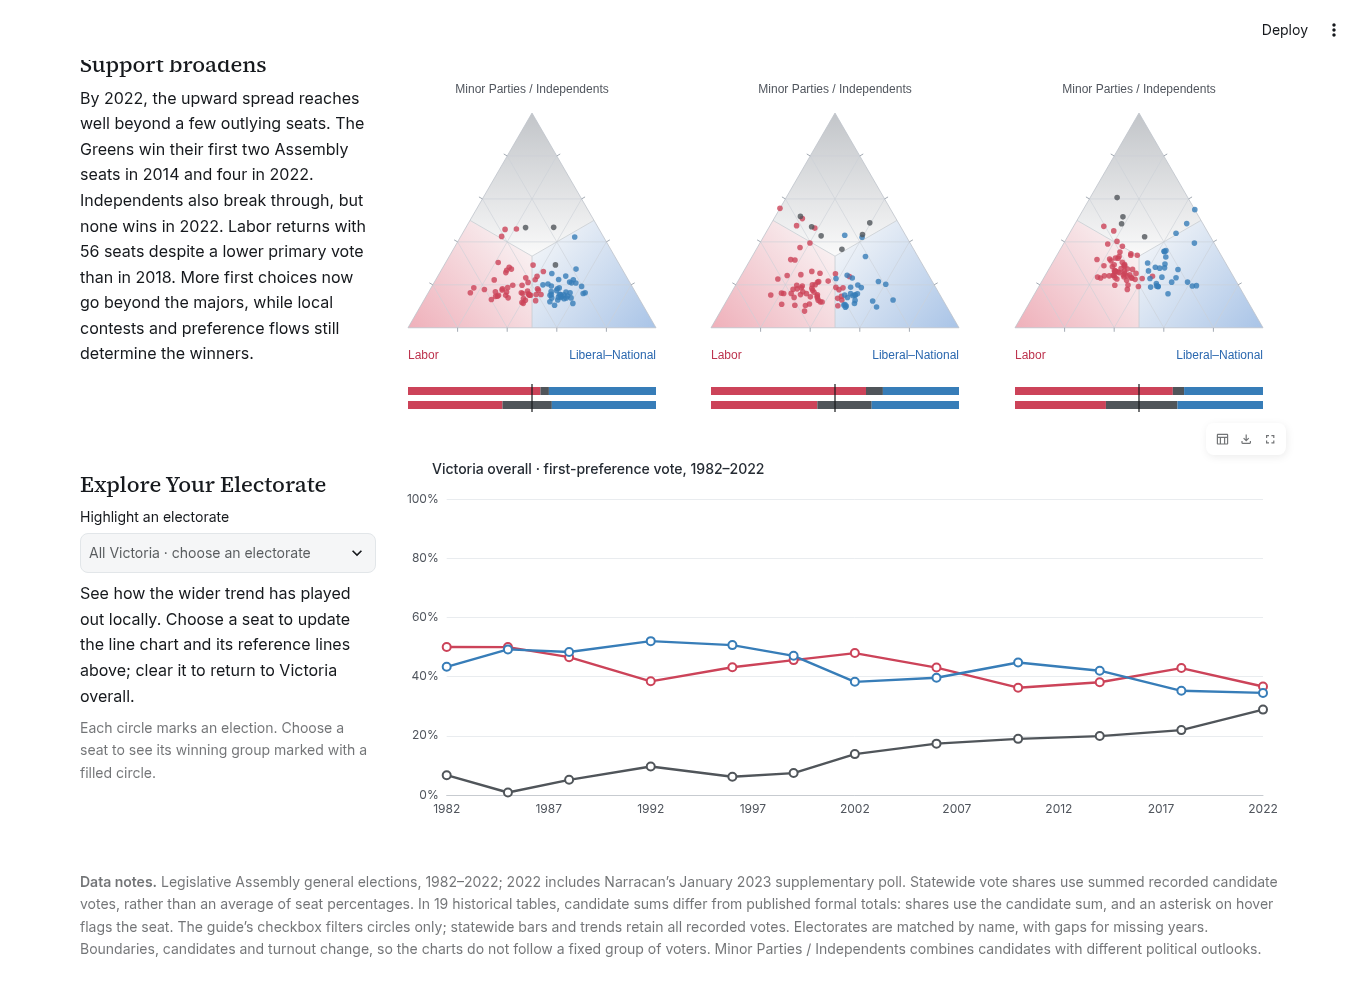
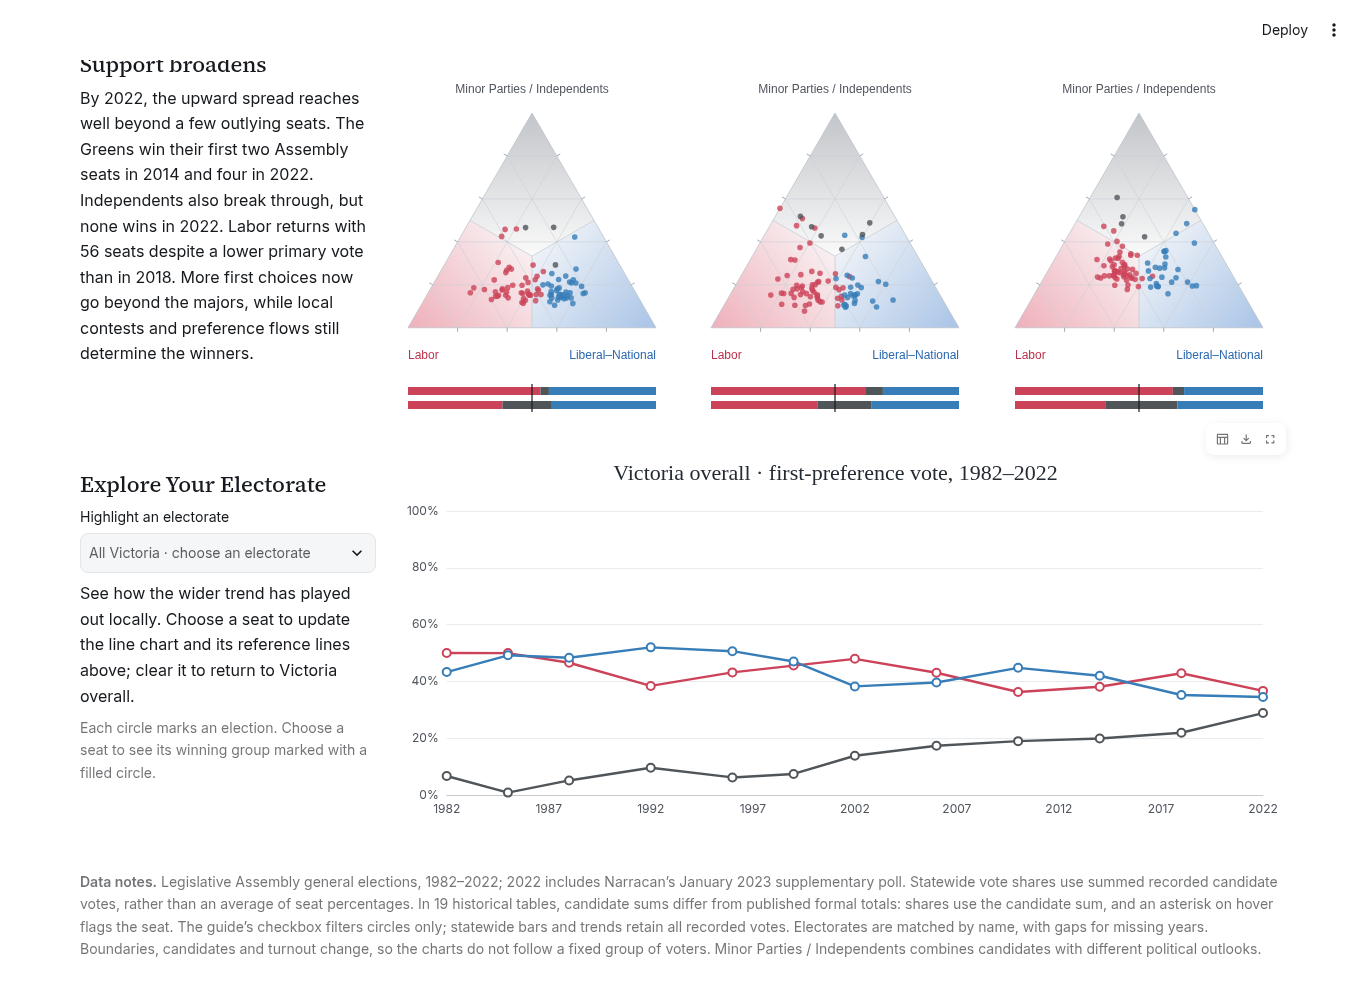
Use a shared centred header style for election charts

diff --git a/charts.py b/charts.py
@@ -28,6 +28,11 @@ WINNER_COLORS = {'Labor': '#cc4359', 'Liberal–National': '#377db8', MINOR_LABE
 WINNER_KEYS = {'Labor': 'Labor', 'Liberal–National': 'Coalition', MINOR_LABEL: 'Other'}
 
 
+def chart_title(text):
+    """Shared header treatment for the historical charts and vote trend."""
+    return dict(text=text,left='center',top=4,padding=0,textStyle=dict(color='#252b33',fontSize=22,fontWeight=500,fontFamily='Georgia, serif'))
+
+
 def election_summary(df, year):
     """Statewide seat shares and vote-weighted first preferences, in legend order."""
     seats = df[df.election_year == year]
@@ -105,7 +110,7 @@ def ternary_options(df, year, highlight=None, summary_df=None, show_summary=True
             return {type:'group',children:children};
             }""".replace('GEOMETRY',TERNARY_GEOMETRY_JS).replace('ROW',str(index)).replace('PALETTE',repr(list(WINNER_COLORS.values()))).replace('\n',' ')).js_code
             series.append(dict(type='custom',name=name,coordinateSystem='none',renderItem=bar,data=[shares],silent=True,z=1,tooltip=dict(show=False)))
-    options = dict(backgroundColor='#ffffff',animation=False,title=dict(text=str(year),left='center',top=4,padding=0,textStyle=dict(color='#252b33',fontSize=22,fontWeight=500,fontFamily='Georgia, serif')),tooltip=dict(show=False),series=series)
+    options = dict(backgroundColor='#ffffff',animation=False,title=chart_title(str(year)),tooltip=dict(show=False),series=series)
     if highlight and not (sub.electorate == highlight).any():
         options['graphic'] = [dict(type='text',left='center',top=330,style=dict(text='No displayed result under this name',fill='#68727e',font='10px sans-serif'))]
     return options
@@ -185,9 +190,9 @@ def primary_trend_options(df, electorate=None):
     media.append(dict(option=dict(grid=dict(left=24,right=24))))
     return dict(
         animation=False,backgroundColor='#ffffff',textStyle=dict(fontFamily='Inter, sans-serif'),
-        title=dict(text=f'{electorate or "Victoria overall"} · first-preference vote, 1982–2022',left=48,top=4,padding=0,textAlign='left',textStyle=dict(color='#252b33',fontSize=14,fontWeight=500)),
+        title=chart_title(f'{electorate or "Victoria overall"} · first-preference vote, 1982–2022'),
         dataset=dict(source=primary_trend_data(df,electorate)),
-        grid=dict(left=24,right=24,top=40,bottom=24,containLabel=True),media=media,
+        grid=dict(left=24,right=24,top=52,bottom=24,containLabel=True),media=media,
         xAxis=dict(type='time',min='1982-01-01',max='2022-01-01',splitNumber=8,axisLabel=dict(formatter='{yyyy}',color='#51565e',showMinLabel=True,showMaxLabel=True,hideOverlap=True),axisLine=dict(lineStyle=dict(color='#c7cbd0')),axisTick=dict(show=False),splitLine=dict(show=False)),
         yAxis=dict(type='value',min=0,max=100,interval=20,axisLabel=dict(formatter='{value}%',color='#51565e'),axisLine=dict(show=False),axisTick=dict(show=False),splitLine=dict(lineStyle=dict(color='#e9ecef'))),
         tooltip=dict(trigger='axis',confine=True,formatter=tooltip,axisPointer=dict(type='line',lineStyle=dict(color='#aeb5bd',type='dashed'))),

diff --git a/capture.py b/capture.py
@@ -3,7 +3,7 @@ from pathlib import Path
 import argparse
 import math
 import pandas as pd
-from playwright.sync_api import sync_playwright
+from playwright.sync_api import sync_playwright, expect
 
 parser = argparse.ArgumentParser()
 parser.add_argument('--url', default='http://127.0.0.1:8501')
@@ -17,7 +17,7 @@ with sync_playwright() as playwright:
     page.on('pageerror', lambda error: errors.append(str(error)))
     page.goto(args.url, wait_until='networkidle')
     page.wait_for_timeout(3000)
-    assert page.locator('iframe').count() == 12
+    expect(page.locator('iframe')).to_have_count(12,timeout=30000)
     assert page.get_by_role('tab').count() == 0
     assert page.get_by_text('Windsock map', exact=True).count() == 0
     for width in [1440, 1366]:
@@ -80,7 +80,7 @@ with sync_playwright() as playwright:
     trend_box=canvas.bounding_box()
     track=(trend_box['width']-16)/3
     inset=max(24,(track-(380-164)/(math.sqrt(3)/2))/2)
-    page.mouse.move(trend_box['x']+trend_box['width']-inset-1,trend_box['y']+40+(trend_box['height']-84)*(1-seat.labor_pct/100))
+    page.mouse.move(trend_box['x']+trend_box['width']-inset-1,trend_box['y']+52+(trend_box['height']-96)*(1-seat.labor_pct/100))
     page.wait_for_timeout(400)
     assert page.get_by_text('Elected: Labor',exact=False).is_visible()
     assert page.get_by_text('Labor: 41%',exact=False).is_visible()
